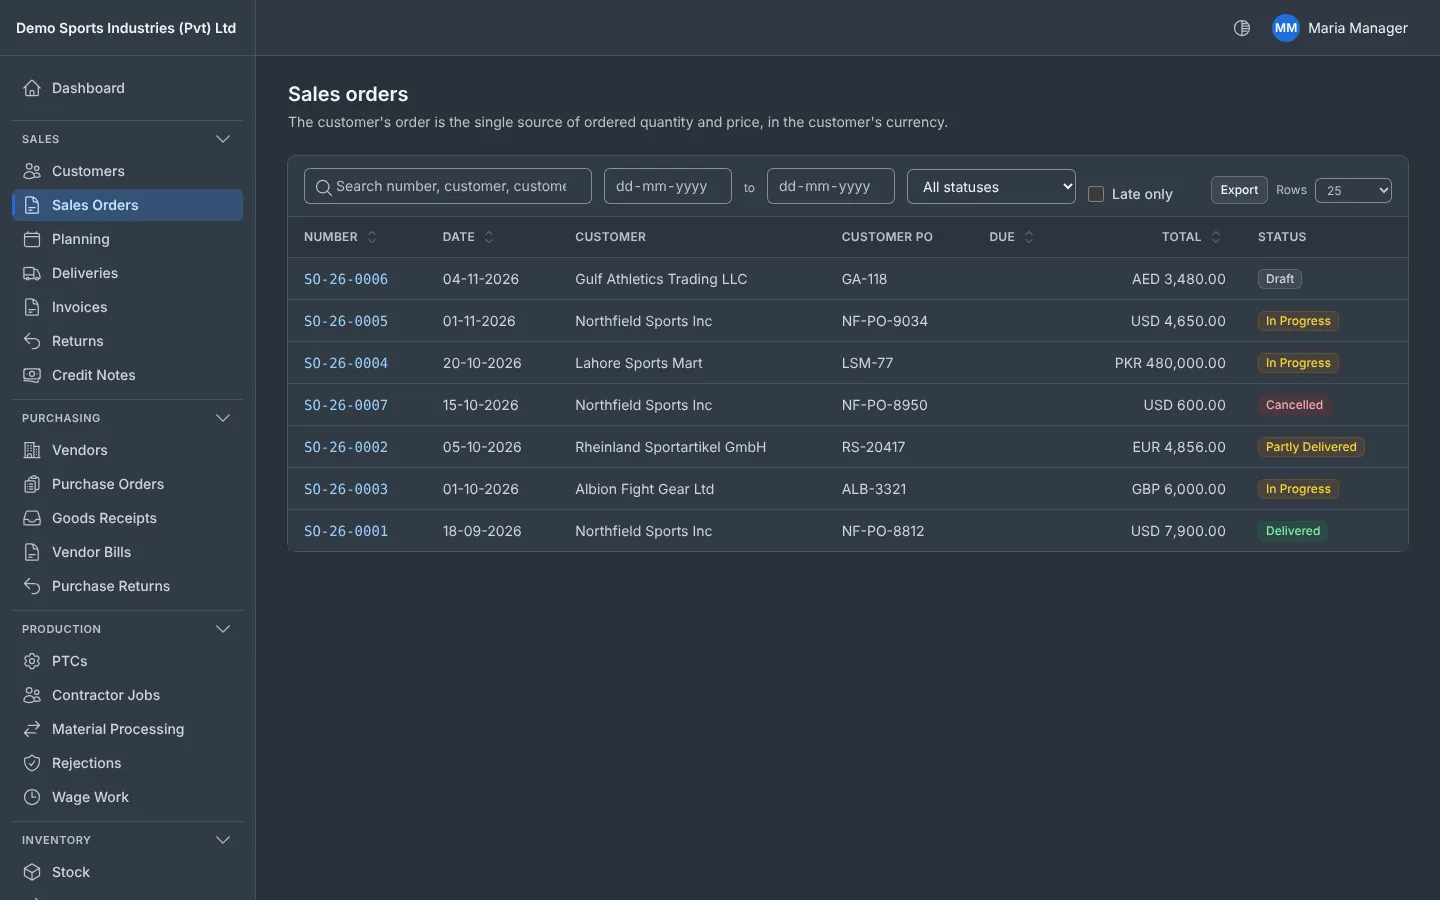
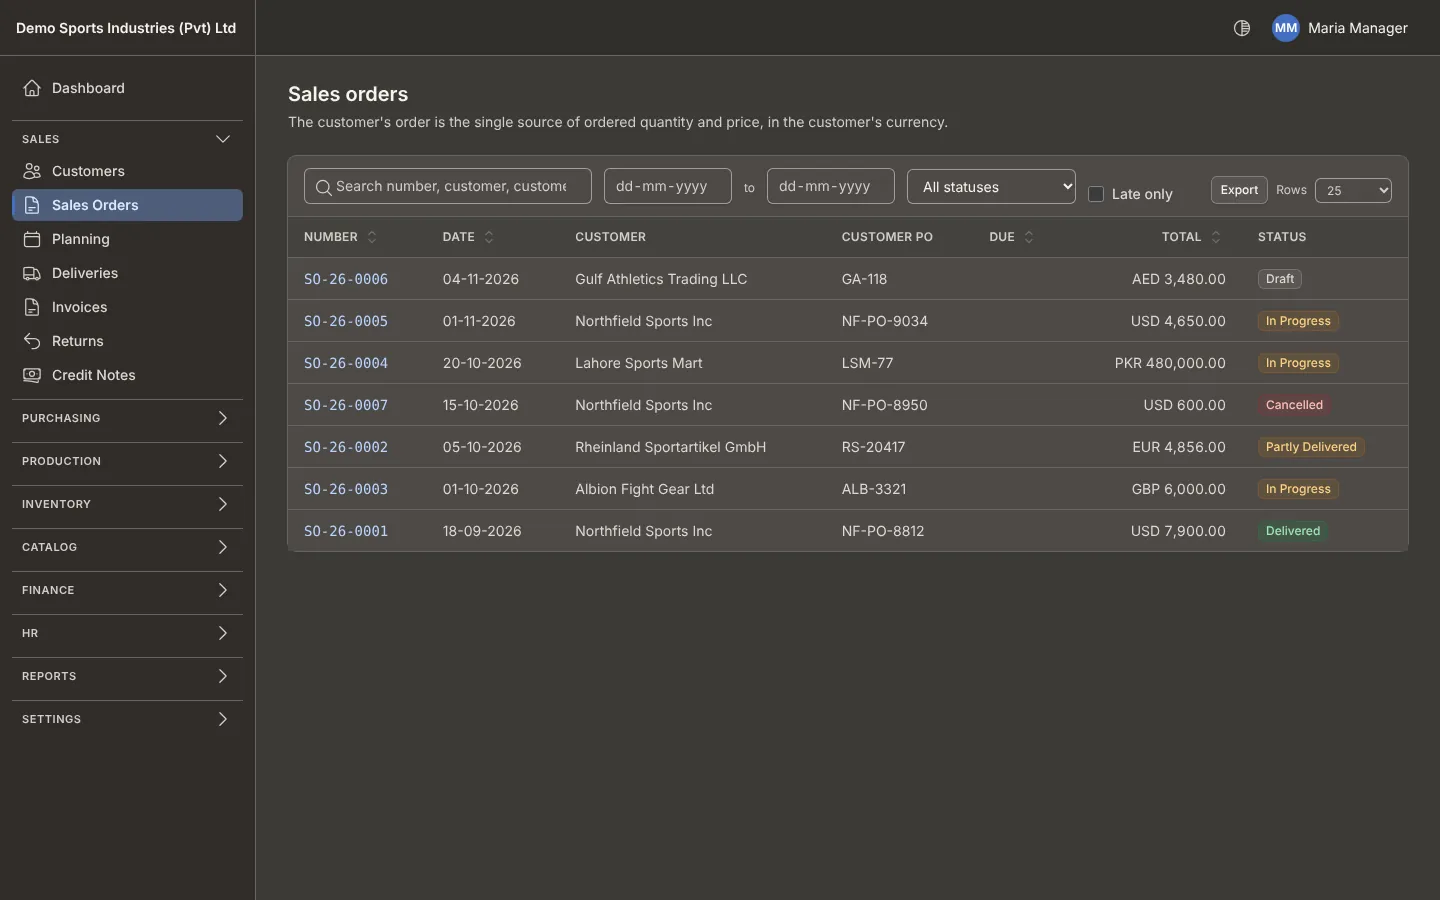
UI: redesign Dim as its own theme
- Warm graphite ("stone") palette instead of Dark's cool slate, with its
  own text, accent (softened periwinkle) and calmer status colours.
- A different depth model: a deeper frame (new bg-chrome token for the
  sidebar and top bar) around a mid-tone page with clearly lifted cards.
  Light and Dark map chrome to their surface, so they are unchanged.
- Every text colour is at least 4.5:1 on every Dim surface; form control
  edges 3.3:1. The guide's Dim screenshot is updated.

Claude-Session: https://claude.ai/code/session_01G1AToygGu5tBsDteA7v8HY

diff --git a/resources/css/app.css b/resources/css/app.css
@@ -30,6 +30,7 @@
  */
 @theme inline {
     --color-page: var(--ui-page);
+    --color-chrome: var(--ui-chrome);
     --color-surface: var(--ui-surface);
     --color-sunken: var(--ui-sunken);
     --color-raised: var(--ui-raised);
@@ -53,6 +54,7 @@
     :root {
         color-scheme: light;
         --ui-page: oklch(0.975 0.005 262);        /* app background */
+        --ui-chrome: oklch(1 0 0);                /* sidebar and top bar */
         --ui-surface: oklch(1 0 0);               /* cards, sidebar, top bar, tables */
         --ui-sunken: oklch(0.965 0.006 262);      /* table heads, card footers, disabled fields */
         --ui-raised: oklch(1 0 0);                /* menus, modals, toasts (plus shadow and ring) */
@@ -75,6 +77,7 @@
     .dark {
         color-scheme: dark;                        /* native selects, date pickers, scrollbars */
         --ui-page: oklch(0.19 0.012 262);
+        --ui-chrome: oklch(0.225 0.014 262);
         --ui-surface: oklch(0.225 0.014 262);
         --ui-sunken: oklch(0.205 0.013 262);
         --ui-raised: oklch(0.27 0.016 262);
@@ -95,27 +98,34 @@
     }
 
     /*
-     * Dim: a softer, lighter slate between light and dark. <html> carries both
-     * "dark" and "dim", so dark: variants (alerts, badge backgrounds) still apply
-     * and only these values change. Same contrast rules as above.
+     * Dim: its own theme, not a lighter Dark. Warm graphite ("stone") instead of
+     * Dark's cool slate, and a different depth model: a deeper frame (sidebar and
+     * top bar) around a mid-tone page with clearly lifted cards. The accent is a
+     * softened periwinkle of the brand blue; status colours are calmer pastels.
+     * <html> carries "dark" and "dim" so dark: variants (alert and badge tints)
+     * still apply. Text is at least 4.5:1 on every surface it sits on, form
+     * control edges 3.3:1.
      */
     .dark.dim {
-        --ui-page: oklch(0.31 0.02 255);
-        --ui-surface: oklch(0.345 0.022 255);
-        --ui-sunken: oklch(0.325 0.021 255);
-        --ui-raised: oklch(0.39 0.023 255);
-        --ui-hover: oklch(0.405 0.024 255);
-        --ui-selected: oklch(0.43 0.07 255);
-        --ui-selected-fg: oklch(0.9 0.07 250);
-        --ui-line: oklch(0.44 0.022 255);
-        --ui-line-strong: oklch(0.64 0.02 255);
-        --ui-fg: oklch(0.965 0.006 255);
-        --ui-muted: oklch(0.87 0.014 255);
-        --ui-subtle: oklch(0.81 0.016 255);
-        --ui-link: oklch(0.84 0.1 250);
-        --ui-danger: oklch(0.808 0.114 19.6);
-        --ui-success: oklch(0.871 0.15 154.4);
-        --ui-warning: oklch(0.879 0.169 91.6);
+        --ui-chrome: oklch(0.3 0.0065 70);
+        --ui-page: oklch(0.35 0.0055 70);
+        --ui-sunken: oklch(0.38 0.006 70);
+        --ui-surface: oklch(0.41 0.0065 70);
+        --ui-raised: oklch(0.45 0.007 70);
+        --ui-hover: oklch(0.455 0.008 70);
+        --ui-selected: oklch(0.475 0.05 262);
+        --ui-selected-fg: oklch(0.93 0.045 262);
+        --ui-line: oklch(0.505 0.007 70);
+        --ui-line-strong: oklch(0.7 0.007 70);
+        --ui-fg: oklch(0.965 0.01 85);
+        --ui-muted: oklch(0.885 0.01 80);
+        --ui-subtle: oklch(0.85 0.009 75);
+        --ui-link: oklch(0.865 0.075 262);
+        --ui-danger: oklch(0.86 0.08 28);
+        --ui-success: oklch(0.86 0.1 155);
+        --ui-warning: oklch(0.88 0.11 82);
+        --ui-primary: oklch(0.55 0.135 262);
+        --ui-primary-hover: oklch(0.51 0.135 262);
     }
 
     html {

diff --git a/resources/views/layouts/app.blade.php b/resources/views/layouts/app.blade.php
@@ -17,7 +17,7 @@
     {{-- Sidebar --}}
     <aside
         :class="sidebar ? 'translate-x-0' : '-translate-x-full'"
-        class="fixed inset-y-0 left-0 z-50 flex w-64 -translate-x-full flex-col border-r border-line bg-surface transition-transform lg:translate-x-0"
+        class="fixed inset-y-0 left-0 z-50 flex w-64 -translate-x-full flex-col border-r border-line bg-chrome transition-transform lg:translate-x-0"
     >
         <div class="flex h-14 items-center gap-2 border-b border-line px-4">
             @if ($logo = $settings->get('company.logo_path'))
@@ -55,7 +55,7 @@
 
     <div class="lg:pl-64">
         {{-- Top bar --}}
-        <header class="sticky top-0 z-30 flex h-14 items-center gap-3 border-b border-line bg-surface/90 px-4 backdrop-blur sm:px-6">
+        <header class="sticky top-0 z-30 flex h-14 items-center gap-3 border-b border-line bg-chrome/90 px-4 backdrop-blur sm:px-6">
             <button type="button" class="-ml-1 rounded p-1 text-subtle lg:hidden" x-on:click="sidebar = true">
                 <x-icon name="menu" /><span class="sr-only">Open menu</span>
             </button>

diff --git a/AGENTS.md b/AGENTS.md
@@ -72,7 +72,7 @@ app/Modules/Inventory/
 
 ## UI conventions
 
-- **Colours are semantic tokens** defined once in `resources/css/app.css` for each theme (light, dim, dark; dim sets both the `dark` and `dim` classes on `<html>`, see `resources/js/theme.js`): `bg-page` (app background), `bg-surface` (cards, sidebar, tables, inputs), `bg-sunken` (table heads, footers), `bg-raised` (menus, modals, toasts), `bg-hover`, `bg-selected`/`text-selected-fg`, `border-line`/`divide-line` (dividers), `ring-line-strong` (form control edges), `text-fg`, `text-muted` (secondary text, cells), `text-subtle` (captions, headings of groups, placeholders), `text-link`, `text-danger`/`text-success`/`text-warning`, `bg-primary`. They need no `dark:` variant. Do not use raw grey shades (`zinc-*`, `gray-*`) in screens; `tests/Unit/ThemeColorsTest.php` fails on them. Status badges (`<x-badge>`) and printouts keep their own colours. Keep new token values at 4.5:1 contrast for text and 3:1 for control edges in every theme.
+- **Colours are semantic tokens** defined once in `resources/css/app.css` for each theme (light, dim, dark; dim sets both the `dark` and `dim` classes on `<html>`, see `resources/js/theme.js`): `bg-page` (app background), `bg-chrome` (sidebar and top bar), `bg-surface` (cards, tables, inputs), `bg-sunken` (table heads, footers), `bg-raised` (menus, modals, toasts), `bg-hover`, `bg-selected`/`text-selected-fg`, `border-line`/`divide-line` (dividers), `ring-line-strong` (form control edges), `text-fg`, `text-muted` (secondary text, cells), `text-subtle` (captions, headings of groups, placeholders), `text-link`, `text-danger`/`text-success`/`text-warning`, `bg-primary`. They need no `dark:` variant. Do not use raw grey shades (`zinc-*`, `gray-*`) in screens; `tests/Unit/ThemeColorsTest.php` fails on them. Status badges (`<x-badge>`) and printouts keep their own colours. Keep new token values at 4.5:1 contrast for text and 3:1 for control edges in every theme.
 - Full-page Livewire components are routed directly (`Route::get('items', Items\Index::class)`) and use the `layouts::app` layout. Set the page title with `#[Title('...')]` or `->title()`.
 - List screens use the `App\Support\Livewire\WithDataTable` trait plus `<x-table>`, `<x-table.toolbar>`, `<x-table.th sortable=...>`.
 - Forms use `<x-input>`, `<x-select>`, `<x-textarea>`, `<x-checkbox>`, `<x-date-input>`: errors are shown automatically from `wire:model`. Add `data-save-shortcut` to the main `<form>` so Ctrl+S saves.
